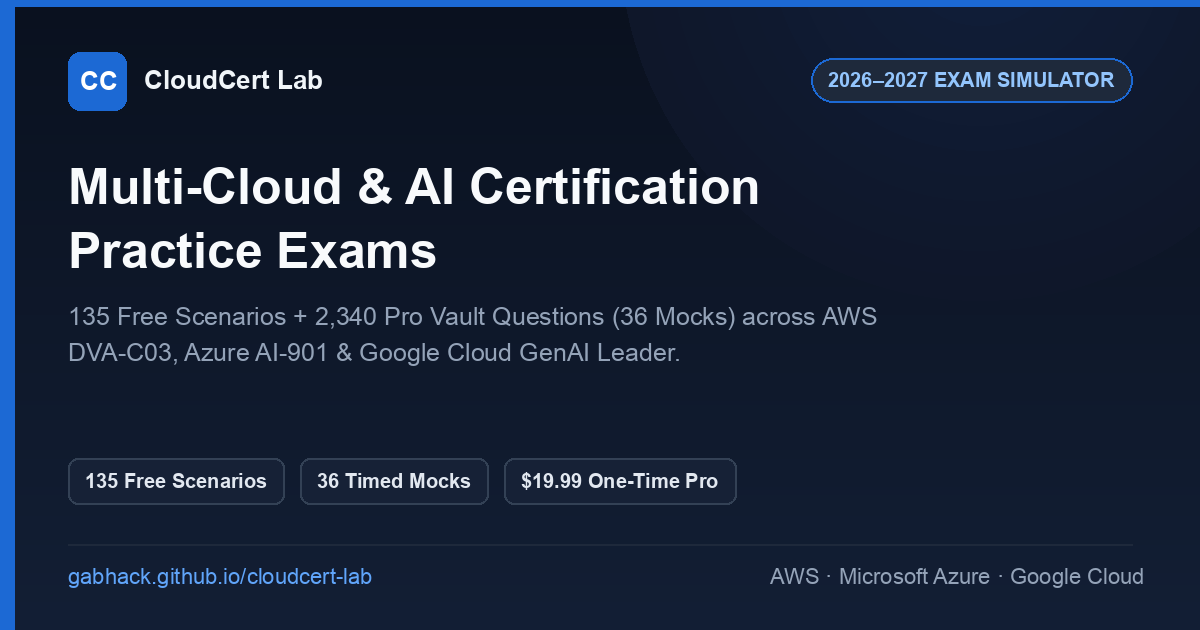
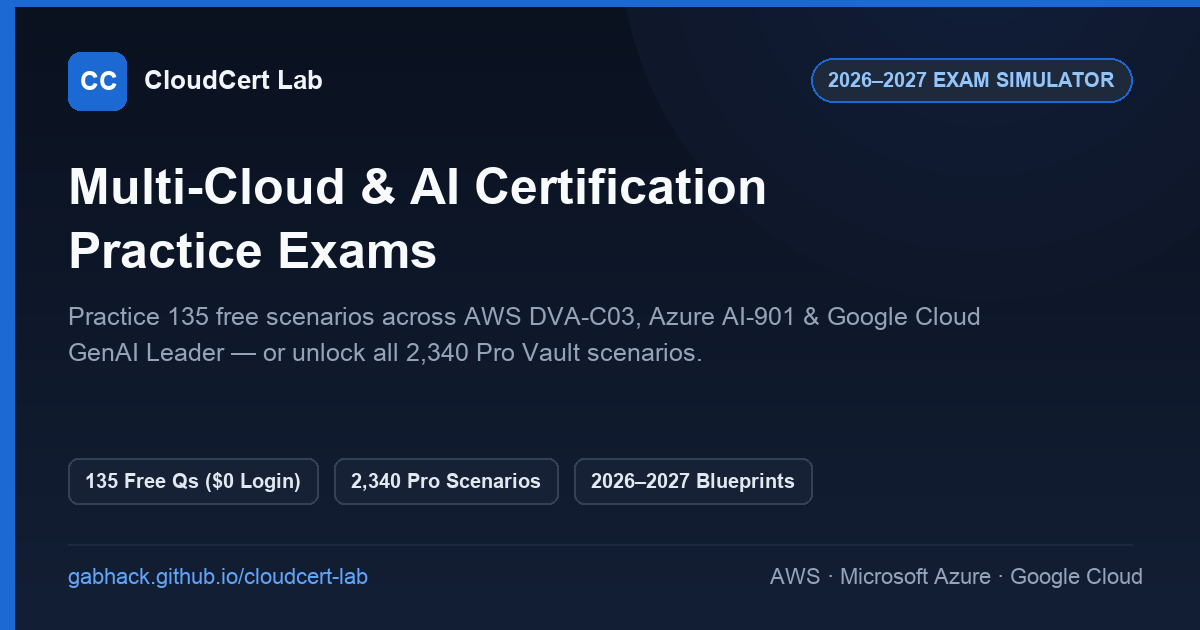
feat(seo-cro): add exam costs & passing scores guide, retake protection CRO & restore deploy_ghpages.sh

diff --git a/exams/cloud-ai-exam-costs-passing-scores-2026/index.html b/exams/cloud-ai-exam-costs-passing-scores-2026/index.html
@@ -1,0 +1,259 @@
+<!DOCTYPE html>
+<html lang="en" data-theme="light" data-density="comfortable">
+<head>
+  <meta charset="UTF-8" />
+  <meta name="viewport" content="width=device-width, initial-scale=1.0" />
+  <title>2026–2027 Cloud &amp; AI Certification Costs, Passing Scores &amp; Retake Fees (AWS, Azure, GCP) | CloudCert Lab</title>
+  <meta name="description" content="Official 2026-2027 comparison of AWS (DVA-C03 Dec 2026, SAA-C03, AIF-C01, CLF-C02, DEA-C01, MLA-C01, AIP-C01), Microsoft Azure AI-901, and Google Cloud GenAI Leader exam fees ($99-$300), passing scores, durations, and retake wait rules." />
+  <link rel="canonical" href="https://gabhack.github.io/cloudcert-lab/exams/cloud-ai-exam-costs-passing-scores-2026/" />
+  <meta property="og:type" content="article" />
+  <meta property="og:title" content="2026–2027 Cloud &amp; AI Certification Costs, Passing Scores &amp; Retake Fees" />
+  <meta property="og:description" content="Compare official $99-$300 exam fees, 70%-75% passing scores, question counts, and retake waiting periods across 10 AWS, Microsoft Azure, and Google Cloud certifications." />
+  <meta property="og:url" content="https://gabhack.github.io/cloudcert-lab/exams/cloud-ai-exam-costs-passing-scores-2026/" />
+  <meta property="og:image" content="https://gabhack.github.io/cloudcert-lab/assets/og/cloud-ai-exam-costs-passing-scores-2026.png" />
+  <meta property="og:image:width" content="1200" />
+  <meta property="og:image:height" content="630" />
+  <meta name="twitter:card" content="summary_large_image" />
+  <meta name="twitter:title" content="2026–2027 Cloud &amp; AI Certification Costs, Passing Scores &amp; Retake Fees" />
+  <meta name="twitter:description" content="Compare official $99-$300 exam fees, 70%-75% passing scores, and retake policies across AWS DVA-C03, Azure AI-901 &amp; Google Cloud GenAI Leader." />
+  <meta name="twitter:image" content="https://gabhack.github.io/cloudcert-lab/assets/og/cloud-ai-exam-costs-passing-scores-2026.png" />
+  <link rel="preconnect" href="https://fonts.googleapis.com" />
+  <link rel="preconnect" href="https://fonts.gstatic.com" crossorigin />
+  <link href="https://fonts.googleapis.com/css2?family=Inter:wght@400;500;600;700;800&display=swap" rel="stylesheet" />
+  <link rel="stylesheet" href="../../styles.css" />
+  <script type="application/ld+json">{"@context": "https://schema.org", "@graph": [{"@type": "BreadcrumbList", "itemListElement": [{"@type": "ListItem", "position": 1, "name": "CloudCert Lab", "item": "https://gabhack.github.io/cloudcert-lab/"}, {"@type": "ListItem", "position": 2, "name": "Exam Costs, Passing Scores & Retake Fees (2026–2027)", "item": "https://gabhack.github.io/cloudcert-lab/exams/cloud-ai-exam-costs-passing-scores-2026/"}]}, {"@type": "ItemList", "name": "2026-2027 Cloud & AI Certification Exam Costs and Passing Scores", "itemListElement": [{"@type": "ListItem", "position": 1, "name": "Microsoft Azure AI-901 ($99 USD, 700/1000 passing score, 90 min)", "url": "https://gabhack.github.io/cloudcert-lab/exams/azure-ai-901/"}, {"@type": "ListItem", "position": 2, "name": "Google Cloud Generative AI Leader ($99 USD, ~70% passing score, 90 min)", "url": "https://gabhack.github.io/cloudcert-lab/exams/gcp-genai-leader/"}, {"@type": "ListItem", "position": 3, "name": "AWS CLF-C02 ($100 USD, 700/1000 passing score, 90 min)", "url": "https://gabhack.github.io/cloudcert-lab/exams/aws-clf-c02/"}, {"@type": "ListItem", "position": 4, "name": "AWS AIF-C01 ($100 USD, 700/1000 passing score, 90 min)", "url": "https://gabhack.github.io/cloudcert-lab/exams/aws-aif-c01/"}, {"@type": "ListItem", "position": 5, "name": "AWS DVA-C03 New Dec 2026 ($150 USD, 720/1000 passing score, 130 min)", "url": "https://gabhack.github.io/cloudcert-lab/exams/aws-dva-c03/"}, {"@type": "ListItem", "position": 6, "name": "AWS SAA-C03 ($150 USD, 720/1000 passing score, 130 min)", "url": "https://gabhack.github.io/cloudcert-lab/exams/aws-saa-c03/"}, {"@type": "ListItem", "position": 7, "name": "AWS DEA-C01 ($150 USD, 720/1000 passing score, 130 min)", "url": "https://gabhack.github.io/cloudcert-lab/exams/aws-dea-c01/"}, {"@type": "ListItem", "position": 8, "name": "AWS MLA-C01 ($150 USD, 720/1000 passing score, 130 min)", "url": "https://gabhack.github.io/cloudcert-lab/exams/aws-mla-c01/"}, {"@type": "ListItem", "position": 9, "name": "AWS AIP-C01 GenAI Developer Pro ($300 USD, 750/1000 passing score, 170 min)", "url": "https://gabhack.github.io/cloudcert-lab/exams/aws-aip-c01-guide/"}]}, {"@type": "FAQPage", "mainEntity": [{"@type": "Question", "name": "How much do AWS, Azure AI-901, and Google Cloud GenAI Leader exams cost in 2026–2027?", "acceptedAnswer": {"@type": "Answer", "text": "Foundational certifications cost $99 USD (Microsoft Azure AI-901 and Google Cloud Generative AI Leader) or $100 USD (AWS CLF-C02 and AWS AIF-C01). AWS Associate exams (DVA-C03, DVA-C02, SAA-C03, DEA-C01, MLA-C01) cost $150 USD, and AWS Professional exams (AIP-C01) cost $300 USD per attempt."}}, {"@type": "Question", "name": "Do AWS, Microsoft Azure, or Google Cloud give free exam retakes?", "acceptedAnswer": {"@type": "Answer", "text": "No. You must pay the full exam fee again on every retake attempt unless you hold a promotional voucher. AWS enforces a 14-day waiting period after a failed attempt, Microsoft requires 24 hours after the first fail (14 days after subsequent fails), and Google Cloud requires 14 days after the first fail (60 days after the second)."}}, {"@type": "Question", "name": "How does passing a Foundational AWS exam cut Associate and Pro exam costs by 50%?", "acceptedAnswer": {"@type": "Answer", "text": "Passing any AWS certification (such as CLF-C02 or AIF-C01 for $100) grants a 50% discount voucher in AWS Certification Benefits, reducing a $150 Associate exam (DVA-C03, SAA-C03, DEA-C01, MLA-C01) to $75 or a $300 Professional exam (AIP-C01) to $150."}}]}]}</script>
+  <script>
+    (function () {
+      var t = localStorage.getItem("cloudcert_theme");
+      if (t === "dark" || t === "light") document.documentElement.setAttribute("data-theme", t);
+    })();
+  </script>
+</head>
+<body class="has-sticky-cro">
+  <div class="accent-bar" aria-hidden="true"></div>
+  <header class="topbar">
+    <div class="topbar-inner">
+      <a class="brand-group" href="../../" style="text-decoration:none; color:inherit;">
+        <div class="brand-mark">CC</div>
+        <div>
+          <div class="brand-title">CloudCert Lab</div>
+          <div class="brand-sub">2026–2027 Exam Costs, Passing Scores &amp; Retake Guide</div>
+        </div>
+      </a>
+      <div class="topbar-actions">
+        <a class="btn" href="../../?tool=calculator">Retake Risk Calculator</a>
+        <a class="btn btn-primary" href="https://gabbler407.gumroad.com/l/cloudcert-lab-pro" target="_blank" rel="noopener">Unlock 2,340 Qs ($19.99)</a>
+      </div>
+    </div>
+  </header>
+
+  <main class="container">
+    <nav class="exam-breadcrumb" aria-label="Breadcrumb">
+      <a href="../../">All 9 Cloud Certifications</a>
+      <span>/</span>
+      <span>Exam Costs, Passing Scores &amp; Retake Fees (2026–2027)</span>
+    </nav>
+
+    <section class="card hero">
+      <div>
+        <span class="badge badge-brand">2026–2027 PRICING &amp; RETAKE REFERENCE · AWS · AZURE · GCP</span>
+        <h1>Cloud &amp; AI Certification Exam Costs, Passing Scores &amp; Retake Fees (2026–2027)</h1>
+        <p><strong>Quick Answer:</strong> Foundational exams cost <strong>$99–$100 USD</strong> (70% pass bar), AWS Associate exams including the new <strong>Dec 1, 2026 DVA-C03</strong> cost <strong>$150 USD</strong> (72% pass bar), and AWS Professional exams like <strong>AIP-C01</strong> cost <strong>$300 USD</strong> (75% pass bar). None of the three cloud providers include free retakes—making a single $19.99 full-bank simulator <strong>80%–93% cheaper</strong> than paying one retake fee.</p>
+      </div>
+      <div style="display:flex; flex-direction:column; gap:0.55rem; min-width:235px;">
+        <a class="btn btn-primary" href="../../?tool=calculator">Check Pass Readiness Free →</a>
+        <a class="btn" href="../../">Launch 135 Free Questions</a>
+        <button class="btn no-print" type="button" onclick="window.print()">Save / Print Cost Guide PDF</button>
+        <a class="btn btn-ghost" href="https://gabbler407.gumroad.com/l/cloudcert-lab-pro" target="_blank" rel="noopener">Protect Retake Fee ($19.99 Pro)</a>
+      </div>
+    </section>
+
+    <section class="card" style="margin-top:1.25rem; overflow-x:auto;">
+      <h2 style="margin:0 0 0.35rem; font-size:1.18rem;">Official 2026–2027 Exam Fee, Passing Score &amp; Retake Policy Matrix</h2>
+      <p style="margin:0 0 0.75rem; color:var(--muted); font-size:var(--fs-sm);">Side-by-side blueprint specifications across AWS, Microsoft Azure, and Google Cloud. Click any exam code to launch 15 free diagnostic questions.</p>
+      <table class="domain-table">
+        <thead>
+          <tr>
+            <th>Provider</th>
+            <th>Exam Code</th>
+            <th>Official Fee (USD)</th>
+            <th>Passing Score</th>
+            <th>Duration / Qs</th>
+            <th>Retake Wait Policy</th>
+            <th>Free Practice</th>
+          </tr>
+        </thead>
+        <tbody>
+          <tr>
+            <td><strong>Microsoft Azure</strong></td>
+            <td><a href="../azure-ai-901/"><strong>AI-901</strong></a> *(New)*</td>
+            <td><strong>$99</strong></td>
+            <td>700 / 1000 (70%)</td>
+            <td>90 min · ~45–60 Qs</td>
+            <td>24h (1st fail) · 14d (2nd+)</td>
+            <td><a href="../../?exam=azure-ai-901&amp;mode=study">15 Free Qs</a> · <a href="https://www.amazon.com/dp/B0HS93MZC7" target="_blank" rel="noopener">KU Book</a></td>
+          </tr>
+          <tr>
+            <td><strong>Google Cloud</strong></td>
+            <td><a href="../gcp-genai-leader/"><strong>GenAI Leader</strong></a></td>
+            <td><strong>$99</strong></td>
+            <td>~70%</td>
+            <td>90 min · 50–60 Qs</td>
+            <td>14d (1st fail) · 60d (2nd)</td>
+            <td><a href="../../?exam=gcp-genai-leader&amp;mode=study">15 Free Qs</a> · <a href="https://www.amazon.com/dp/B0HSL1MYYM" target="_blank" rel="noopener">KU Book</a></td>
+          </tr>
+          <tr>
+            <td><strong>AWS</strong></td>
+            <td><a href="../aws-clf-c02/"><strong>CLF-C02</strong></a></td>
+            <td><strong>$100</strong></td>
+            <td>700 / 1000 (70%)</td>
+            <td>90 min · 65 Qs</td>
+            <td>14 days per retake</td>
+            <td><a href="../../?exam=aws-clf-c02&amp;mode=study">15 Free Qs</a> · <a href="https://www.amazon.com/dp/B0HQ8ZT44Y" target="_blank" rel="noopener">KU Book</a></td>
+          </tr>
+          <tr>
+            <td><strong>AWS</strong></td>
+            <td><a href="../aws-aif-c01/"><strong>AIF-C01</strong></a></td>
+            <td><strong>$100</strong></td>
+            <td>700 / 1000 (70%)</td>
+            <td>90 min · 65 Qs</td>
+            <td>14 days per retake</td>
+            <td><a href="../../?exam=aws-aif-c01&amp;mode=study">15 Free Qs</a> · <a href="https://www.amazon.com/dp/B0HQXNM3VY" target="_blank" rel="noopener">KU Book</a></td>
+          </tr>
+          <tr>
+            <td><strong>AWS</strong></td>
+            <td><a href="../aws-dva-c03/"><strong>DVA-C03</strong></a> *(Dec 1, 2026)*</td>
+            <td><strong>$150</strong></td>
+            <td>720 / 1000 (72%)</td>
+            <td>130 min · 65 Qs</td>
+            <td>14 days per retake</td>
+            <td><a href="../../?exam=aws-dva-c03&amp;mode=study">15 Free Qs</a> · <a href="https://www.udemy.com/course/aws-certified-developer-associate-dva-c03-practice-exams-p/" target="_blank" rel="noopener">Udemy</a></td>
+          </tr>
+          <tr>
+            <td><strong>AWS</strong></td>
+            <td><a href="../aws-dva-c02/"><strong>DVA-C02</strong></a> *(Retiring)*</td>
+            <td><strong>$150</strong></td>
+            <td>720 / 1000 (72%)</td>
+            <td>130 min · 65 Qs</td>
+            <td>14 days per retake</td>
+            <td><a href="../../?exam=aws-dva-c02&amp;mode=study">15 Free Qs</a> · <a href="../aws-dva-c02-vs-dva-c03/">Compare DVA-C03</a></td>
+          </tr>
+          <tr>
+            <td><strong>AWS</strong></td>
+            <td><a href="../aws-saa-c03/"><strong>SAA-C03</strong></a></td>
+            <td><strong>$150</strong></td>
+            <td>720 / 1000 (72%)</td>
+            <td>130 min · 65 Qs</td>
+            <td>14 days per retake</td>
+            <td><a href="../../?exam=aws-saa-c03&amp;mode=study">15 Free Qs</a> · <a href="https://www.amazon.com/dp/B0HRVB8PZ3" target="_blank" rel="noopener">KU Book</a></td>
+          </tr>
+          <tr>
+            <td><strong>AWS</strong></td>
+            <td><a href="../aws-dea-c01/"><strong>DEA-C01</strong></a></td>
+            <td><strong>$150</strong></td>
+            <td>720 / 1000 (72%)</td>
+            <td>130 min · 65 Qs</td>
+            <td>14 days per retake</td>
+            <td><a href="../../?exam=aws-dea-c01&amp;mode=study">15 Free Qs</a> · <a href="https://www.udemy.com/course/aws-certified-data-engineer-associate-dea-c01-mock-exams-d/" target="_blank" rel="noopener">Udemy</a></td>
+          </tr>
+          <tr>
+            <td><strong>AWS</strong></td>
+            <td><a href="../aws-mla-c01/"><strong>MLA-C01</strong></a></td>
+            <td><strong>$150</strong></td>
+            <td>720 / 1000 (72%)</td>
+            <td>130 min · 65 Qs</td>
+            <td>14 days per retake</td>
+            <td><a href="../../?exam=aws-mla-c01&amp;mode=study">15 Free Qs</a> · <a href="https://www.amazon.com/dp/B0HS1GKQSQ" target="_blank" rel="noopener">KU Book</a></td>
+          </tr>
+          <tr>
+            <td><strong>AWS</strong></td>
+            <td><a href="../aws-aip-c01-guide/"><strong>AIP-C01</strong></a> *(GenAI Pro)*</td>
+            <td><strong>$300</strong></td>
+            <td>750 / 1000 (75%)</td>
+            <td>170 min · 75 Qs</td>
+            <td>14 days per retake</td>
+            <td><a href="../aws-aip-c01-guide/">Study Guide</a> · <a href="../../?tool=calculator&amp;cert=aws-aip-c01">Risk Calc</a></td>
+          </tr>
+        </tbody>
+      </table>
+    </section>
+
+    <section class="cro-paywall" style="margin-top:1.35rem;">
+      <span class="badge badge-brand">ZERO-RISK EXAM PREP · $19.99 ONCE VS $99–$300 RETAKE</span>
+      <h3 style="margin:0.45rem 0 0.35rem;">3 Ways to Cut Your 2026–2027 Cloud Certification Bill by 50%–87%</h3>
+      <ul style="margin:0.5rem 0 1rem; padding-left:1.2rem; font-size:var(--fs-sm); display:flex; flex-direction:column; gap:0.4rem;">
+        <li><strong>1. Chain AWS 50% Discount Vouchers:</strong> Passing <code>CLF-C02</code> or <code>AIF-C01</code> ($100) unlocks a 50% AWS voucher that cuts a $150 Associate exam (like <strong>DVA-C03</strong> or <strong>SAA-C03</strong>) to $75, or cuts the $300 <strong>AIP-C01 Pro</strong> exam to $150.</li>
+        <li><strong>2. Never Sit Exam Day Below 82% on Timed 65-Q Mocks:</strong> Target a +10% safety buffer above the official passing score (80%+ on Foundational, 82%+ on Associate) to absorb unscored beta questions and exam fatigue.</li>
+        <li><strong>3. Bundle All 9 Certifications for $19.99 Instead of $49.99/Course:</strong> Unlock all <strong>2,340 scenarios (36 timed mocks) + Offline HTML ZIP + 225-Hack Master Cheat Sheets PDF</strong> for <strong>$19.99 USD one-time</strong> — saving 95% vs buying 9 separate Udemy courses ($449.91) and 87% vs a single $150 AWS retake.</li>
+      </ul>
+      <div style="display:flex; gap:0.65rem; flex-wrap:wrap;">
+        <a class="btn btn-primary" href="https://gabbler407.gumroad.com/l/cloudcert-lab-pro" target="_blank" rel="noopener">Unlock All 2,340 Qs ($19.99 One-Time) →</a>
+        <a class="btn" href="../../?tool=calculator">Run Retake Risk Calculator</a>
+        <a class="btn btn-ghost" href="../free-cloud-ai-exam-cheat-sheet-2026/">Free 27-Hack Cheat Sheet</a>
+      </div>
+    </section>
+
+    <section style="margin-top:1.6rem;">
+      <h2 style="margin:0 0 0.5rem; font-size:1.15rem;">Frequently Asked Questions</h2>
+      <div class="faq-item">
+        <h3>How much do AWS, Azure AI-901, and Google Cloud GenAI Leader exams cost in 2026–2027?</h3>
+        <p>Foundational certifications cost $99 USD (Microsoft Azure AI-901 and Google Cloud Generative AI Leader) or $100 USD (AWS CLF-C02 and AWS AIF-C01). AWS Associate exams (DVA-C03, DVA-C02, SAA-C03, DEA-C01, MLA-C01) cost $150 USD, and AWS Professional exams (AIP-C01) cost $300 USD per attempt.</p>
+      </div>
+      <div class="faq-item">
+        <h3>Do AWS, Microsoft Azure, or Google Cloud give free exam retakes?</h3>
+        <p>No. You must pay the full exam fee again on every retake attempt unless you hold a promotional voucher. AWS enforces a 14-day waiting period after a failed attempt, Microsoft requires 24 hours after the first fail (14 days after subsequent fails), and Google Cloud requires 14 days after the first fail (60 days after the second).</p>
+      </div>
+      <div class="faq-item">
+        <h3>How does passing a Foundational AWS exam cut Associate and Pro exam costs by 50%?</h3>
+        <p>Passing any AWS certification (such as CLF-C02 or AIF-C01 for $100) grants a 50% discount voucher in AWS Certification Benefits, reducing a $150 Associate exam (DVA-C03, SAA-C03, DEA-C01, MLA-C01) to $75 or a $300 Professional exam (AIP-C01) to $150.</p>
+      </div>
+    </section>
+
+    <footer class="seo-footer">
+      <div class="seo-footer-grid">
+        <div>
+          <h4>All 9 Free 2026–2027 Exam Guides</h4>
+          <ul>
+            <li><a href="../azure-ai-901/">Microsoft Azure AI-901 Practice Exam (260 Qs)</a></li>
+            <li><a href="../gcp-genai-leader/">Google Cloud GenAI Leader Practice Exam (260 Qs)</a></li>
+            <li><a href="../aws-aif-c01/">AWS AIF-C01 Practice Exam (260 Qs)</a></li>
+            <li><a href="../aws-mla-c01/">AWS MLA-C01 Practice Exam (260 Qs)</a></li>
+            <li><a href="../aws-dea-c01/">AWS DEA-C01 Practice Exam (260 Qs)</a></li>
+            <li><a href="../aws-dva-c03/">AWS DVA-C03 (New Dec 2026) Practice Exam (260 Qs)</a></li>
+            <li><a href="../aws-dva-c02/">AWS DVA-C02 Practice Exam (260 Qs)</a></li>
+            <li><a href="../aws-saa-c03/">AWS SAA-C03 Practice Exam (260 Qs)</a></li>
+            <li><a href="../aws-clf-c02/">AWS CLF-C02 Practice Exam (260 Qs)</a></li>
+          </ul>
+        </div>
+        <div>
+          <h4>Comparisons &amp; Quick Links</h4>
+          <ul>
+            <li><a href="../aws-dva-c02-vs-dva-c03/">AWS DVA-C02 vs DVA-C03 (New Dec 2026)</a></li>
+            <li><a href="../ai-certifications-comparison-2026/">Azure AI-901 vs AWS AIF-C01 vs GCP GenAI Leader</a></li>
+            <li><a href="../aws-associate-certifications-comparison-2026/">AWS Associate Certs: SAA-C03 vs DVA-C03 vs DEA-C01 vs MLA-C01</a></li>
+            <li><a href="../aws-clf-c02-vs-aif-c01-vs-saa-c03/">AWS CLF-C02 vs AIF-C01 vs SAA-C03</a></li>
+            <li><a href="../free-cloud-ai-exam-cheat-sheet-2026/">Free 27-Hack Multi-Cloud Cheat Sheet</a></li>
+            <li><a href="../cloud-ai-exam-glossary-2026/">Cloud &amp; AI Exam Traps Glossary</a></li>
+            <li><a href="../../">CloudCert Lab Interactive Simulator</a></li>
+            <li><a href="https://gabbler407.gumroad.com/l/cloudcert-lab-pro" target="_blank" rel="noopener">Pro Vault — 2,340 Scenarios ($19.99)</a></li>
+            <li><a href="https://www.amazon.com/author/gabrieln" target="_blank" rel="noopener">Amazon Kindle Companion Books (KU $0)</a></li>
+          </ul>
+        </div>
+      </div>
+      <div>Updated 2026-11-26 · CloudCert Lab Independent Practice Exam Simulator.</div>
+    </footer>
+  </main>
+
+  <aside class="sticky-cro-bar" aria-label="Quick exam actions">
+    <div class="sticky-cro-inner">
+      <div style="font-size:var(--fs-sm);">
+        <strong>Protect a $99–$300 Retake Fee:</strong> Start 135 Free Qs or unlock all <strong>2,340 Qs + 225-Hack PDF ($19.99)</strong>
+      </div>
+      <div style="display:flex; gap:0.5rem; flex-wrap:wrap;">
+        <a class="btn" href="../../?tool=calculator">Check Pass Readiness</a>
+        <a class="btn btn-primary" href="https://gabbler407.gumroad.com/l/cloudcert-lab-pro" target="_blank" rel="noopener">Unlock 2,340 Qs ($19.99) →</a>
+      </div>
+    </div>
+  </aside>
+</body>
+</html>

diff --git a/app.js b/app.js
@@ -622,13 +622,16 @@ function finishExam() {
   const remainingCertQs = Math.max(0, STATE.activeCert.total_questions - total);
   const kdp = getKdpCompanion(STATE.activeCert.slug);
   const udemyUrl = getUdemyCompanion(STATE.activeCert.slug);
+  const examFee = CERT_EXAM_FEES[STATE.activeCert.slug] || 150;
+  const retakeSavingsPct = Math.round((1 - 19.99 / examFee) * 100);
 
   const upsellBanner = !STATE.isPro
     ? `<div class="cro-paywall">
          <span class="badge badge-brand">PRO ALL-ACCESS VAULT · $449 VALUE → $19.99 (95% OFF)</span>
-         <h3>${passed ? `Lock In Your ${escapeHtml(STATE.activeCert.code)} First-Try Pass` : `Close Your ${escapeHtml(STATE.activeCert.code)} Score Gap Before Exam Day`}</h3>
+         <span class="badge badge-warning" style="margin-left:0.35rem;">RETAKE PROTECTION: $${examFee} EXAM FEE VS $19.99 (${retakeSavingsPct}% CHEAPER THAN 1 RETAKE)</span>
+         <h3>${passed ? `Lock In Your ${escapeHtml(STATE.activeCert.code)} First-Try Pass` : `Close Your ${escapeHtml(STATE.activeCert.code)} Score Gap Before Risking a $${examFee} Retake`}</h3>
          <p style="margin:0; color:var(--muted); font-size:var(--fs-sm);">
-           You just completed the 15-question Free Diagnostic (<strong>${pct}%</strong>). Instead of $49.99 per course, unlock the remaining
+           You just completed the 15-question Free Diagnostic (<strong>${pct}%</strong>). Instead of $49.99 per course or paying <strong>$${examFee} USD</strong> for an exam retake, unlock the remaining
            <strong>${remainingCertQs} ${escapeHtml(STATE.activeCert.code)} scenarios</strong> plus all 8 other AWS, Azure &amp; Google Cloud exams (<strong>2,340 scenarios · 36 timed mocks + 225-Hack Cheat Sheets PDF</strong>) for one single $19.99 payment.
          </p>
          ${weakest ? `<div class="cro-gap-alert">
@@ -651,9 +654,10 @@ function finishExam() {
          </div>
          <div style="display:flex; gap:0.65rem; flex-wrap:wrap; align-items:center; margin-top:0.85rem;">
            <a class="btn btn-primary" href="${CONFIG.CHECKOUT_URL}" target="_blank" rel="noopener">
-             Unlock All 2,340 Scenarios ($19.99 One-Time) →
+             Protect $${examFee} Exam Fee — Unlock 2,340 Qs ($19.99) →
            </a>
            <button class="btn" type="button" id="btnResultUnlock">Already Have a Key? Activate</button>
+           <a class="btn btn-ghost" href="exams/cloud-ai-exam-costs-passing-scores-2026/">Compare Exam Costs &amp; Pass Bars</a>
            ${udemyUrl ? `<a class="btn btn-ghost" href="${escapeHtml(udemyUrl)}" target="_blank" rel="noopener">Or Buy ${escapeHtml(STATE.activeCert.code)} on Udemy ($49.99) →</a>` : ""}
          </div>
          <div class="cro-trust-row">

diff --git a/index.html b/index.html
@@ -311,6 +311,7 @@
             <li><a href="exams/aws-dva-c02-vs-dva-c03/">Compare: AWS DVA-C02 vs DVA-C03 (Dec 2026 Migration)</a></li>
             <li><a href="exams/free-cloud-ai-exam-cheat-sheet-2026/">Free 27-Hack Multi-Cloud Exam Cheat Sheet (2026–2027)</a></li>
             <li><a href="exams/cloud-ai-exam-glossary-2026/">Cloud &amp; AI Certification Exam Traps Glossary (12 Distinctions)</a></li>
+            <li><a href="exams/cloud-ai-exam-costs-passing-scores-2026/">Cloud &amp; AI Exam Costs, Passing Scores &amp; Retake Fees ($99–$300)</a></li>
             <li><a href="exams/aws-dea-c01/">AWS Data Engineer Associate (DEA-C01) Practice Exam</a></li>
             <li><a href="exams/aws-dva-c02/">AWS Developer Associate (DVA-C02) Practice Exam</a></li>
             <li><a href="exams/aws-saa-c03/">AWS Solutions Architect (SAA-C03) Practice Scenarios</a></li>

diff --git a/README.md b/README.md
@@ -36,6 +36,7 @@ Interactive, zero-login **Multi-Cloud & AI Certification Practice Exam Simulator
 - **TuringTec Agent Studio (4 Live B2B AI Agent Sandboxes + 15 n8n Workflows + MCP Servers):** [TuringTec Agent Studio](https://gabhack.github.io/turingtec-agent-studio/) · [aws-finops-guard Open-Core CLI + MCP](https://github.com/gabhack/aws-finops-guard)
 
 ### 2026–2027 Comparison & Migration Guides
+- [Cloud & AI Exam Costs, Passing Scores & Retake Fees ($99–$300, 2026–2027)](https://gabhack.github.io/cloudcert-lab/exams/cloud-ai-exam-costs-passing-scores-2026/)
 - [Cloud & AI Certification Exam Traps Glossary (12 Core Distinctions)](https://gabhack.github.io/cloudcert-lab/exams/cloud-ai-exam-glossary-2026/)
 - [AWS CLF-C02 vs AIF-C01 vs SAA-C03 (Which AWS Certification First?)](https://gabhack.github.io/cloudcert-lab/exams/aws-clf-c02-vs-aif-c01-vs-saa-c03/)
 - [Azure AI-900 vs AI-901 (2026 Retirement & Microsoft Foundry Guide)](https://gabhack.github.io/cloudcert-lab/exams/azure-ai-900-vs-ai-901/)
